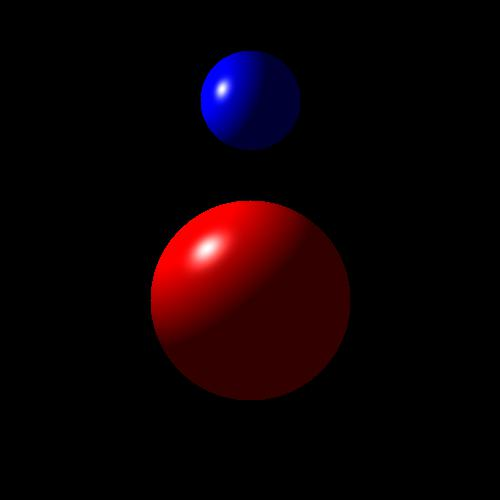
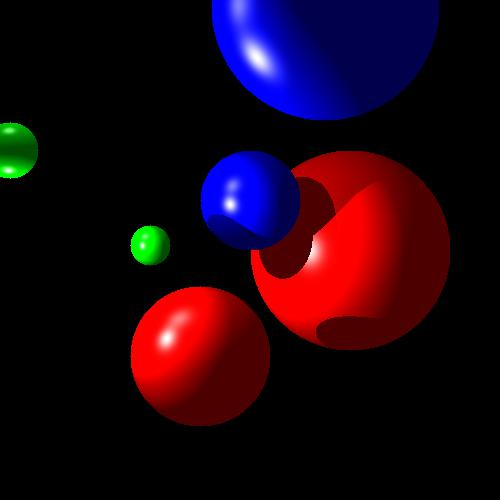
Enfin un truc qui a de la gueule !

diff --git a/Projet.py b/Projet.py
@@ -32,9 +32,6 @@ class Vector:
     def myprint(self):
         print("x=",self.x," y=",self.y," z=",self.z)
 
-    def scalaire(self,v):
-        return self.x*v.x+self.y*v.y+self.z*v.z
-
     def __add__(self, vB):
         return Vector(self.x+vB.x,self.y+vB.y,self.z+vB.z) 
     
@@ -103,6 +100,30 @@ class Sphere:
         self.speculaire=speculaire
         self.brillance=brillance
 
+    def colision(self,v,p):
+        point=False
+        a = v.x**2 + v.y**2 + v.z**2
+        b= 2*(v.x*(p.x-self.point.x)+v.y*(p.y-self.point.y)+v.z*(p.z-self.point.z))
+        c = ((self.point.x-p.x)**2+(self.point.y-p.y)**2+(self.point.z-p.z)**2)-self.rayon**2
+        #b= 2*(v.x*(p.x)+v.y*(p.y)+v.z*(p.z))
+        #c = ((p.x)**2+(p.y)**2+(p.z)**2)-self.rayon**2
+        det = b**2-(4*a*c)
+        if det>0:
+            t1 = (-b+sqrt(det))/(2*a)
+            p1=Point(v.x*t1+p.x,v.y*t1+p.y,v.z*t1+p.z)
+            
+            t2 = (-b-sqrt(det))/(2*a)
+            p2=Point(v.x*t2+p.x,v.y*t2+p.y,v.z*t2+p.z)
+
+            if p1.norme(p)>p2.norme(p):
+                point=p2
+            else:
+                point=p1
+        elif det==0:
+            t=-b/(2*a)
+            point=Point(v.x*t+p.x,v.y*t+p.y,v.z*t+p.z)
+        return point
+
 class Scene:
     
     def __init__(self,camera):
@@ -113,8 +134,7 @@ class Scene:
         self.buffer = self.image.load()
         for x in range(self.camera.screen_width):
             for y in range(self.camera.screen_height):
-                self.buffer[x,y]=(0,0,0)
-                     
+                self.buffer[x,y]=(0,0,0)         
     def __add__(self, element):
         if isinstance(element,Light):
             self.tabLight.append(element)
@@ -130,22 +150,8 @@ class Scene:
                 pointMin = False
                 colorMin = False
                 for sphere in self.tabSphere:
-                    find=False
-                    a = direction.x**2 + direction.y**2 + direction.z**2
-                    b= 2*(direction.x*(position.x-sphere.point.x)+direction.y*(position.y-sphere.point.y)+direction.z*(position.z-sphere.point.z))
-                    c = ((sphere.point.x-position.x)**2+(sphere.point.y-position.y)**2+(sphere.point.z-position.z)**2)-sphere.rayon**2
-                    det = b**2-(4*a*c)
-                    if det>0:
-                        t1 = (-b+sqrt(det))/(2*a)
-                        t2 = (-b-sqrt(det))/(2*a)
-                        if t1>t2:
-                            t1=t2
-                        find=t1
-                    elif det==0:
-                        find=-b/(2*a)
-                    if find!=False:
-                        p=Point(direction.x*find+position.x,direction.y*find+position.y,direction.z*find+position.z)
-                        
+                    p=sphere.colision(direction,position)
+                    if p!=False:
                         if pointMin==False:
                             normeMin=p.norme(position)
                             pointMin=p
@@ -158,27 +164,40 @@ class Scene:
                                 sphereMin=sphere
 
                 if pointMin!=False:
+                    p=pointMin
                     for light in self.tabLight:
                         
-                        if light.mode == Light.DIFFUSE or light.mode == Light.PHONG:
-                            L=Vector.fromPoint(p,light.point,True)
-                            N=Vector.fromPoint(sphereMin.point,p,True)
-                            intensite=L*N*sphereMin.diffuse*light.intensite
-                            if intensite>0:
-                                self.buffer[i,j]=Color.addition(self.buffer[i,j],sphereMin.color,intensite)
-                                
                         if light.mode == Light.AMBIANTE or light.mode == Light.PHONG:
                             self.buffer[i,j]=Color.addition(self.buffer[i,j],sphereMin.color,sphereMin.ambiante*light.intensite)
-                            
-                        if light.mode == Light.SPECULAIRE or light.mode == Light.PHONG:
+
+                        if light.mode!= Light.AMBIANTE :
                             L=Vector.fromPoint(p,light.point,True)
                             N=Vector.fromPoint(sphereMin.point,p,True)
-                            V=Vector.fromPoint(p,position,True)
-                            R=N*2*(N*L)-L
+                            
                             if L*N>0:
-                                intensite=(R*V)**sphereMin.brillance*sphereMin.speculaire*light.intensite
-                                if intensite>0:
-                                    self.buffer[i,j]=Color.addition(self.buffer[i,j],light.color,intensite)
+                                directLight=True
+                                for sphere in self.tabSphere:
+                                    if sphere != sphereMin:
+                                        col=sphere.colision(L,p)
+                                        if col!=False and p.norme(col)<p.norme(light.point) and N*Vector.fromPoint(p,col)>0:
+                                            directLight=False
+                                            break
+                                
+                                if directLight:
+                                    
+                                    if light.mode == Light.DIFFUSE or light.mode == Light.PHONG :
+                                        intensite=L*N*sphereMin.diffuse*light.intensite
+                                        if intensite>0:
+                                            self.buffer[i,j]=Color.addition(self.buffer[i,j],sphereMin.color,intensite)
+                                        
+                                    if light.mode == Light.SPECULAIRE or light.mode == Light.PHONG:
+                                        V=Vector.fromPoint(p,position,True)
+                                        R=N*2*(N*L)-L
+                                        intensite=(R*V)**sphereMin.brillance*sphereMin.speculaire*light.intensite
+                                        if intensite>0:
+                                            self.buffer[i,j]=Color.addition(self.buffer[i,j],light.color,intensite)
+
+
                                           
     def draw(self,name):
         file=open(name,'w')
@@ -190,14 +209,20 @@ class Scene:
     
 scene = Scene(Camera(500,500,500,500,1))
 
-scene+Sphere(Point(250,100,100), 50, Color(0,0,255),ambiante=.2)
-scene+Sphere(Point(250,300,100), 100, Color(255,0,0))
+scene+Sphere(Point(350,250,350), 100, Color(255,0,0))
+scene+Sphere(Point(250,200,250), 50, Color(0,0,255))
+scene+Sphere(Point(150,245,150), 20, Color(0,255,0))
+scene+Sphere(Point(200,356,142), 70, Color(255,0,0))
+scene+Sphere(Point(325,6,35), 114, Color(0,0,255))
+scene+Sphere(Point(10,150,15), 28, Color(0,255,0))
+
 
 #scene+Light(Point(0,0,0), mode=Light.SPECULAIRE)
 #scene+Light(Point(0,0,0), mode=Light.DIFFUSE)
-#scene+Light(Point(250,250,0))
+#scene+Light(Point(0,0,0))
 
-scene+Light(Point(0,0,0), mode=Light.PHONG)
+scene+Light(Point(0,250,0), mode=Light.PHONG)
+scene+Light(Point(0,0,0), mode=Light.PHONG, intensite=0.5)
 #scene+Light(Point(500,500,0), mode=Light.PHONG)
 
 scene.process()
